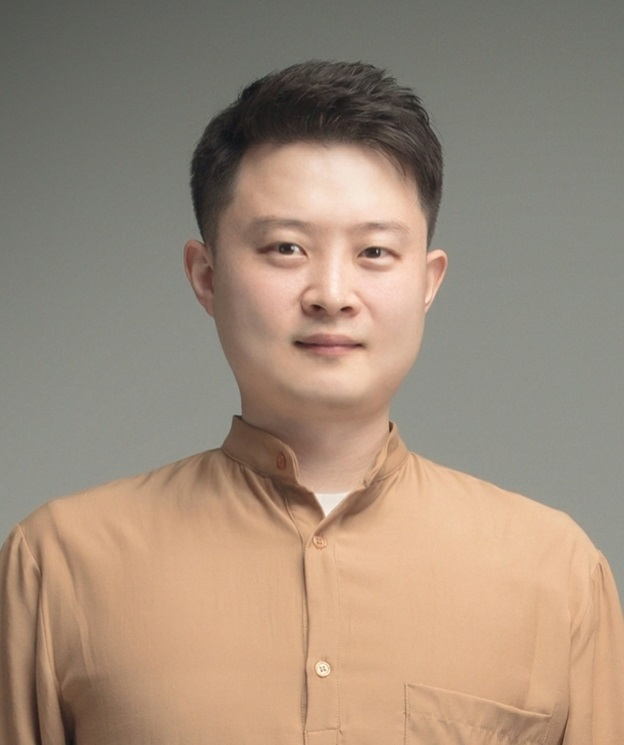
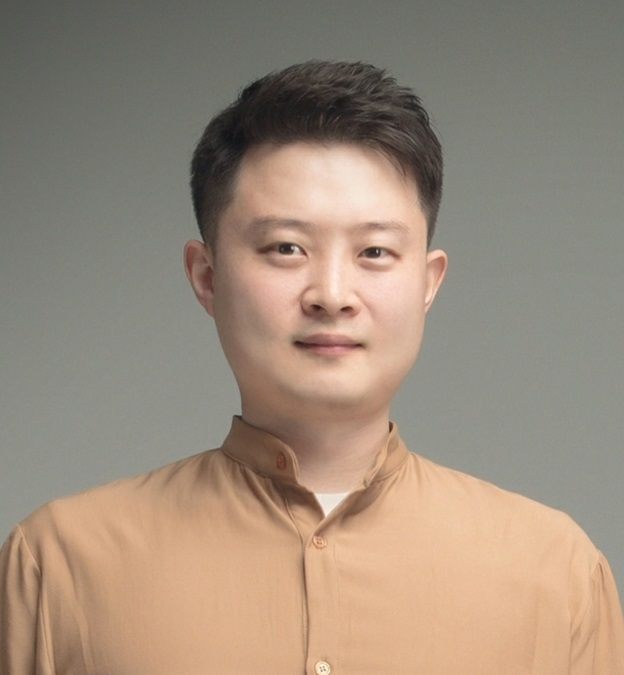
updated description

Changed region(s): [[0.0, 0.0622, 1.0, 1.0], [0.6394, 0.9022, 0.9135, 1.0]]

diff --git a/index.html b/index.html
@@ -3,7 +3,6 @@
 "http://www.w3.org/TR/xhtml1/DTD/xhtml1-strict.dtd">
 <html xmlns="http://www.w3.org/1999/xhtml" lang="en" xml:lang="en">
 <head>
-<!-- 2022-10-22 Sat 06:43 -->
 <meta http-equiv="Content-Type" content="text/html;charset=utf-8" />
 <meta name="viewport" content="width=device-width, initial-scale=1" />
 <title>Sujin Jang</title>
@@ -197,32 +196,42 @@
 <link rel="stylesheet" type="text/css" href="main.css" />
 <link rel="stylesheet" href="https://cdnjs.cloudflare.com/ajax/libs/font-awesome/5.14.0/css/all.min.css" integrity="sha512-1PKOgIY59xJ8Co8+NE6FZ+LOAZKjy+KY8iq0G4B3CyeY6wYHN3yt9PW0XpSriVlkMXe40PTKnXrLnZ9+fkDaog==" crossorigin="anonymous" />
 <link rel="stylesheet" href="https://cdn.jsdelivr.net/gh/jpswalsh/academicons@1/css/academicons.min.css">
+<link rel="stylesheet" href="https://cdn.jsdelivr.net/gh/louisfacun/scholar-icons@master/css/scholar-icons.css">
+<link rel="stylesheet" href="https://cdn.jsdelivr.net/npm/boxicons@latest/css/boxicons.min.css">
+<link href="https://fonts.googleapis.com/css?family=Open+Sans:300,300i,400,400i,600,600i,700,700i|Raleway:300,300i,400,400i,500,500i,600,600i,700,700i|Poppins:300,300i,400,400i,500,500i,600,600i,700,700i" rel="stylesheet">
 </head>
+
 <body>
 <div id="content" class="content">
-<h1 class="title" style="text-align: center;">Sujin Jang</h1>
-<div style="text-align: center;">
-<img src="assets/sujin_profile.jpg" width="20%">
-<p style="text-align: center;">
-sujin.steve.jang [at] gmail.com <br />
-<a href="https://www.sait.samsung.co.kr">Samsung Advanced Institute of Technology (SAIT)</a>, Suwon, South Korea.
-<br/>
-<a href="https://scholar.google.co.kr/citations?user=JiKV0wUAAAAJ">[Google Scholar]</a>
-<a href="https://linkedin.com/in/sujin-jang-7996b354">[LinkedIn]</a>
-<a href="assets/cv.pdf">[CV]</a>
+<h1 class="title" style="text-align: left; color:rgb(0, 102, 204); font-family:verdana">
+<a href="https://sujinjang.github.io/" style="text-decoration: none">
+<strong>Sujin Jang</strong>, Ph.D.
+</a>
+</h1>
+<strong>AI/Cmputer Vision Researcher @</strong><a href="https://www.sait.samsung.co.kr">SAIT (Samsung Advanced Institute of Technology)</a>
+<br>
+Contact: sujin.steve.jang [at] gmail [dot] com
+</br>
+
+<h2 style="color:rgb(0, 102, 204)">About Me
+<a href="https://linkedin.com/in/sujin-jang-7996b354"><i class="fab fa-linkedin fa-1x"></i></a>
+<a href="assets/cv.pdf"><i class="ai ai-cv-square ai-1x"></i></a>
+</h2>
+<div class="outline-text-2" id="text-org132476d">
+<img src="assets/sujin_profile.jpg" align="left" width="150px" style="margin: 0px 20px 0px 0px;">
+<p style="padding-bottom: 0.3cm;" align="justify">
+Hello! I am a Staff Researcher at <a href="https://www.sait.samsung.co.kr">SAIT (Samsung Advanced Institute of Technology)</a>.
+Previously, I was a machine learning researcher at <a href="https://www.motorola.com/kr/">Motorola Mobility</a> in Chicago, IL.
+Before that, I completed my PhD at <a href="https://www.purdue.edu/">Purdue University</a> under the guidance of Dr. <a href="https://engineering.purdue.edu/ME/People/ptProfile?resource_id=12331">Karthik Ramani</a>, focusing on the interaction between humans and machine learning.
+Throughout my research career, I have actively engaged in diverse areas of study, encompassing machine learning, human-computer interaction, visual analytics, and robotics.
+<br>
+Currently at <a href="https://www.sait.samsung.co.kr">SAIT</a>, my primary focus is on developing cutting-edge methodologies in self-supervised learning, domain generalization, and cross-modal representation learning for a variety of computer vision tasks within the field of autonomous driving.
+</p>
 </div>
 
-<h2 style="color:rgb(0, 102, 204)">About me</h2>
-<p>
-Hello! I am a Staff Researcher at <a href="https://www.sait.samsung.co.kr">Samgsung Advanced Institute of Technology (SAIT)</a>.
-Previously, I was a machine learning researcher at Motorola Mobility in Chicago, IL.
-Before that, I completed my PhD at Purdue University under the supervision of Dr. <a href="https://engineering.purdue.edu/ME/People/ptProfile?resource_id=12331">Karthik Ramani</a> where I studied the interaction between human and machine learning.
-<br>
-My current and past research work broadly involve machine learning, human-computer interaction, visual analytics, and robotics.
-More recently, I am primarily interested in self-supervised learning, domain generalization, and cross-modal representation learning for computer vision tasks in the field of autonomous driving.
-</p>
-
-<h2 style="color:rgb(0, 102, 204)">Publications</h2>
+<h2 style="color:rgb(0, 102, 204)">Publications
+<a href="https://scholar.google.com/citations?user=JiKV0wUAAAAJ&hl=en"><i class="ai ai-google-scholar-square ai-1x" ></i></a>
+</h2>
 <div class="outline-text-2" id="text-org132476d">
 <p>
 <b>C</b>: Peer-Reviewed Conference / <b>J</b>: Journal / <b>P</b>: Patent
@@ -231,9 +240,9 @@ More recently, I am primarily interested in self-supervised learning, domain gen
 <dt>[C6] DaDA: Distortion-aware Domain Adaptation for Unsupervised Semantic Segmentation
 </dt>
 <dd><b><span class="underline">Sujin Jang</span></b>, Joohan Na, Dokwan Oh
-<br/>
+<br>
  Advances in Neural Information
-Processing Systems (<b>NeurIPS</b>, <b>Oral</b>, 184/2665~6.9%), 2022
+Processing Systems (<b>NeurIPS-Oral</b>, 184/2665~6.9%), 2022
 </br>
 <a href="https://openreview.net/pdf?id=6RoAxmwj0L2">[paper]</a>
 <a href="https://sait-fdd.github.io/">[project_page]</a>
@@ -244,8 +253,8 @@ Processing Systems (<b>NeurIPS</b>, <b>Oral</b>, 184/2665~6.9%), 2022
 <dt>[C5] Modeling Cumulative Arm Fatigue in Mid-Air Interaction based on Perceived Exertion and Kinetics of Arm Motion
 </dt>
 <dd><b><span class="underline">Sujin Jang</span></b>, Wolfgang St&uuml;erzlinger, Satyajit Ambike, Karthik Ramani
-<br/>
-Proceedings of the ACM Conference on Human Factors in Computing Systems (<b>CHI</b>), 2017 (25% acceptance rate)
+<br>
+Proceedings of the ACM Conference on Human Factors in Computing Systems (<b>CHI</b>, 25% acceptance rate), 2017
 </br>
 <a href="https://dl.acm.org/doi/abs/10.1145/3025453.3025523">[paper]</a>
 <a href="assets/CHI17_Presentation.pdf">[slides]</a>
@@ -255,7 +264,7 @@ Proceedings of the ACM Conference on Human Factors in Computing Systems (<b>CHI<
 <dt>[C4] A Collaborative Filtering Approach to Real-Time Hand Pose Estimation
 </dt>
 <dd>Chiho Choi, Ayan Sinha, Joon Hee Choi, <b><span class="underline">Sujin Jang</span></b>, Karthik Ramani
-<br/>
+<br>
 Proceedings of the IEEE International Conference on Computer Vision (<b>ICCV</b>), 2015
 </br>
 <a href="https://openaccess.thecvf.com/content_iccv_2015/html/Choi_A_Collaborative_Filtering_ICCV_2015_paper.html">[paper]</a>
@@ -263,10 +272,10 @@ Proceedings of the IEEE International Conference on Computer Vision (<b>ICCV</b>
 <a href="https://www.youtube.com/watch?v=tXswZrMEAgo">[video]</a>
 </dd>
 
-<dt>[C3] GestureAnalyzer: visual analytics for pattern analysis of mid-air hand gestures</dt>
+<dt>[C3] GestureAnalyzer: Visual Analytics for Pattern Analysis of Mid-Air Hand Gestures</dt>
 <dd><b><span class="underline">Sujin Jang</span></b>, Niklas Elmqvist, Karthik Ramani
-<br/>
-Proceedings of the ACM Symposium on Spatial User Interaction (<b>SUI</b>), 2014 (29% acceptance rate)
+<br>
+Proceedings of the ACM Symposium on Spatial User Interaction (<b>SUI</b>, 29% acceptance rate), 2014
 </br>
 <a href="https://dl.acm.org/doi/abs/10.1145/2659766.2659772">[paper]</a>
 <a href="https://www.youtube.com/watch?v=F-8NjnB8Di4">[video]</a>
@@ -274,35 +283,36 @@ Proceedings of the ACM Symposium on Spatial User Interaction (<b>SUI</b>), 2014 
 
 <dt>[C2] PuppetX: A Framework for Gestural Interactions With User Constructed Playthings</dt>
 <dd>Saikat Gupta, <b><span class="underline">Sujin Jang</span></b>, Karthik Ramani
-<br/>
-Proceedings of the ACM Conference on Advanced Visual Interfaces (<b>AVI</b>), 2014 (28% acceptance rate)
+<br>
+Proceedings of the ACM Conference on Advanced Visual Interfaces (<b>AVI</b>, 28% acceptance rate), 2014
 </br>
 <a href="https://dl.acm.org/doi/abs/10.1145/2598153.2598171">[paper]</a>
 <a href="https://www.youtube.com/watch?v=5MtBOaB1C14">[video]</a>
 </dd>
 
-<dt>[C1] Experimental Results for Moving Object Structure Estimation using an Unknown Input Observer Approach</dt><dd><b><span class="underline">Sujin Jang</span></b>, Ashwin Dani, Carl Crane, Warren Dixon <br/>
-ASME Dynamic Systems and Control Conference (<b>DSCC</b>, <b><span class="underline">Best Paper in Session Award</span></b>) 2012
-<br/>
+<dt>[C1] Experimental Results for Moving Object Structure Estimation using an Unknown Input Observer Approach</dt>
+<dd><b><span class="underline">Sujin Jang</span></b>, Ashwin Dani, Carl Crane, Warren Dixon <br>
+ASME Dynamic Systems and Control Conference (<b>DSCC</b>, <b><span class="underline">Best Paper in Session Award</span></b>), 2012
+</br>
 <a href="https://asmedigitalcollection.asme.org/DSCC/proceedings-abstract/DSCC2012-MOVIC2012/597/229148">[paper]</a>
 <a href="https://www.youtube.com/watch?v=J2PUK37_94g">[video_static]</a>
 <a href="https://www.youtube.com/watch?v=Lf9OFqTrsBQ">[video_dynamic]</a>
-</br>
 </dd>
 
-<dt>[J2] Advanced Modeling Method for Quantifying Cumulative Subjective Fatigue in Mid-Air Interaction</dt><dd><b><span class="underline">Sujin Jang</span></b>*, Ana Villanueva*, Wolfgang St&uuml;erzlinger, Satyajit Ambike, Karthik Ramani
+<dt>[J2] Advanced Modeling Method for Quantifying Cumulative Subjective Fatigue in Mid-Air Interaction</dt>
+<dd><b><span class="underline">Sujin Jang</span></b>*, Ana Villanueva*, Wolfgang St&uuml;erzlinger, Satyajit Ambike, Karthik Ramani
 <br>
-<i>International Journal of Human-Computer Studies (<b>IJHCS</b>)</i>, Vol 169, January 2023 (<b>*</b>: Equal contributions)
-<br>
+International Journal of Human-Computer Studies (<b>IJHCS</b>), Vol 169, January 2023 (<b>*</b>: Equal contributions)
+</br>
 <a href="https://www.sciencedirect.com/science/article/abs/pii/S1071581922001513">[paper]</a></dd>
 
 <dt>[J1] MotionFlow: Visual Abstraction and Aggregation of Sequential Patterns in Human Motion Tracking Data</dt>
 <dd><b><span class="underline">Sujin Jang</span></b>, Niklas Elmqvist, Karthik Ramani
-<br/>
-<i>IEEE Transaction on Visualization and Computer Graphics (<b>TVCG</b>)</i>, Vol 22. no.1, 2016
+<br>
+IEEE Transaction on Visualization and Computer Graphics (<b>TVCG</b>), Vol 22. no.1, 2016
 </br>
-Presented at <b>IEEE VAST</b> 2015 (22% acceptance rate)
-<br/>
+Presented at <b>IEEE VAST</b> (22% acceptance rate), 2015
+<br>
 <a href="https://ieeexplore.ieee.org/abstract/document/7194831/">[paper]</a>
 <a href="https://vimeo.com/136206227">[video-30sec]</a>
 <a href="https://youtu.be/liaWkY4Uxd4">[video-full]</a>
@@ -310,21 +320,80 @@ Presented at <b>IEEE VAST</b> 2015 (22% acceptance rate)
 </br>
 </dd>
 
-<dt>[P2] Pressure sensing device interface representation</dt>
+<dt>[P3] Method and Device with Data Processing using Neural Network</dt>
+<dd>
+<b><span class="underline">Sujin Jang</span></b>, Joohan Na, Dokwan Oh
+<br>
+US Patent Application 17/575,002, 2022
+</br>
+</dd>
+
+<dt>[P2] Pressure Sensing Device Interface Representation</dt>
 <dd>
 Nikhil Ambha Madhusudhana, Vivek Kumar Tyagi, Navin Dabhi, Hong Zhao, <b><span class="underline">Sujin Jang</span></b>
-<br/>
+<br>
 US Patent 11,320,984, 2022
 </br>
 </dd>
 
-<dt>[P1] Modifying an image based on identifying a feature</dt>
+<dt>[P1] Modifying an Image based on Identifying a Feature</dt>
 <dd>
 Ming Qian, <b><span class="underline">Sujin Jang</span></b>, John Weldon Nicholson, Song Wang
-<br/>
+<br>
 US Patent 11,023,769, 2021
 </br>
 </dd>
+</div>
+
+<div id="outline-container-orgffae3e4" class="outline-2">
+<h2 style="color:rgb(0, 102, 204)">Professional Experience</h2>
+<div class="outline-text-2" id="text-orgffae3e4">
+<ul class="org-ul">
+	<li><b>Samsung Advanced Institute of Technology (SAIT)</b>, Suwon, South Korea
+	<ul class="org-ul">
+		<li>Staff Researcher (Jun. 2020 - Present)
+			<ul class="org-ul">
+				<li>Multi-view 3D vision systems for autonomous driving;</li>
+				<li>Cross-modal representation learning;</li>
+				<li>Unsupervised domain adaptation for visual perception</li>
+			</ul>
+		</li>
+	</li>
+	</ul>
+</ul>
+
+<ul class="org-ul">
+	<li><b>System LSI, Samsung Electronics Co.</b>, Hwaseong, South Korea
+	<ul class="org-ul">
+		<li>Staff Engineer (Jan. 2019 - May 2020)
+		<ul class="org-ul">
+			<li>Object detection and semantic segmentation for autonomous driving;</li>
+			<li>Hardware-aware quantization;</li>
+			<li>GPU/NPU compiler for optimal neural network inference</li>
+		</ul>
+		</li>
+	</li>
+	</ul>
+</ul>
+
+<ul class="org-ul">
+	<li><b>Motorola Mobility LLC.</b>, Chicago, IL, USA
+	<ul class="org-ul">
+		<li>Machine Learning Staff Researcher (Jun. 2017 - Dec. 2018)
+		<ul class="org-ul">
+			<li>Object detection, semantic segmentation, and hand pose estimation for AR/VR applications;</li>
+			<li>Optimization and acceleration of neural network models for smart mobile devices;</li>
+			<li>Human activity analyses based on various types of wearable sensors;</li>
+			<li>Machine learning algorithms for smart mobile/healthcare devices</li>
+		</li>
+		</ul>
+	</li>
+	</ul>
+</ul>
+
+</dl>
+</div>
+</div>
 
 <div id="outline-container-org3b109b4" class="outline-2">
 <h2 style="color:rgb(0, 102, 204)">Education</h2>
@@ -353,44 +422,12 @@ US Patent 11,023,769, 2021
 	<li><b>Kookmin University</b>, Seoul, South Korea
 	<ul class="org-ul">
 		<li>B.S., Mechanical and Automotive Engineering (Aug. 2010)</li>
-		<li>Advisor: Dr. <a href="https://kul.kookmin.ac.kr/xe/index.php?mid=professor_kjh">Jungha Kim
+		<li>Advisor: Dr. <a href="http://kul.kookmin.ac.kr/xe/index.php?mid=professor_kjh">Jungha Kim
 </a></li>
 		<li>Undergraduate Research Assistant, Unmanned Vehicle Lab.</li>
 	</li>
 	</ul>
 </ul>
-
-<div id="outline-container-orgffae3e4" class="outline-2">
-<h2 style="color:rgb(0, 102, 204)">Work Experience</h2>
-<div class="outline-text-2" id="text-orgffae3e4">
-<ul class="org-ul">
-	<li><b>Samsung Advanced Institute of Technology (SAIT)</b>, Suwon, South Korea
-	<ul class="org-ul">
-		<li>Staff Researcher (Jun. 2020 - Present)
-		</li>
-	</li>
-	</ul>
-</ul>
-
-<ul class="org-ul">
-	<li><b>System LSI, Samsung Electronics Co.</b>, Hwaseong, South Korea
-	<ul class="org-ul">
-		<li>Staff Engineer (Jan. 2019 - May 2020)
-		</li>
-	</li>
-	</ul>
-</ul>
-
-<ul class="org-ul">
-	<li><b>Motorola Mobility</b>, Chicago, IL, USA
-	<ul class="org-ul">
-		<li>Machine Learning Staff Researcher (Jun. 2017 - Dec. 2018)
-		</li>
-	</li>
-	</ul>
-</ul>
-
-</dl>
 </div>
 </div>
 
@@ -398,18 +435,18 @@ US Patent 11,023,769, 2021
 <h2 style="color:rgb(0, 102, 204)">Honors and Awards</h2>
 <div class="outline-text-2" id="text-org91fa3b7">
 <ul class="org-ul">
-<li><b>Estus H. and Vashti L. Magoon Award for Teaching Excellence</b> (2015)
-<ul class="org-ul">
-<li>College of Engineering, Purdue University</li>
-<li>Awarded for excellent teaching in "<a href="https://engineering.purdue.edu/toydesign/wp/">ME444: Computer-Aided Design and Rapid Prototyping</a>"
-</li>
-</ul>
+	<li><b>Estus H. and Vashti L. Magoon Award for Teaching Excellence</b> (2015)
+	<ul class="org-ul">
+	<li>College of Engineering, Purdue University</li>
+	<li>Awarded for excellent teaching in "<a href="https://engineering.purdue.edu/toydesign/wp/">ME444: Computer-Aided Design and Rapid Prototyping</a>"</li>
+	</ul>
 
-<li><b>Best Paper in Session Award</b> (2012)
-<ul class="org-ul">
-<li>ASME Dynamic Systems and Control Conference</li>
-<li>Awarded for "<a href="https://asmedigitalcollection.asme.org/DSCC/proceedings-abstract/DSCC2012-MOVIC2012/597/229148">Experimental Results for Moving Object Structure Estimation using an Unknown Input Observer Approach</a>"</li>
-</li>
+	<li><b>Best Paper in Session Award</b> (2012)
+	<ul class="org-ul">
+		<li>ASME Dynamic Systems and Control Conference</li>
+		<li>Awarded for "<a href="https://asmedigitalcollection.asme.org/DSCC/proceedings-abstract/DSCC2012-MOVIC2012/597/229148">Experimental Results for Moving Object Structure Estimation using an Unknown Input Observer Approach</a>"</li>
+	</li>
+	</ul>
 </ul>
 </div>
 </div>
@@ -418,28 +455,28 @@ US Patent 11,023,769, 2021
 <h2 style="color:rgb(0, 102, 204)">Scientific Community Service</h2>
 <div class="outline-text-2" id="text-orgabc2c95">
 <ul class="org-ul">
+<li>[ASME JCISE] Reviewer, Journal of Computing and Information Science in Engineering (2023)</li>
 <li>[IEEE CVPR] Reviewer, Conference on Computer Vision and Pattern Recognition (2023)</li>
-<li>[IEEE ISMAR] Reviewer, IEEE International Symposium on Mixed and Augmented Reality (2021)</li>
-<li>[IEEE VR] Reviewer, IEEE Conference on Virtual Reality and 3D User Interfaces (2018~2019)</li>
-<li>[IEEE 3DUI] Reviewer, IEEE Symposium on 3D User Interfaces (2016)</li>
-<li>[IEEE TVCG] Reviewer, IEEE Transaction on Visualization and Computer Graphics (2017)</li>
-<li>[IEEE VAST] Reviewer, IEEE Conference on Visual Analytics Science and Technology (2016~2020)</li>
-<li>[IEEE InfoVis] Reviewer, IEEE Conference on Information Visualization (2015)</li>
+<li>[IEEE ISMAR] Reviewer, International Symposium on Mixed and Augmented Reality (2021)</li>
+<li>[IEEE VR] Reviewer, Conference on Virtual Reality and 3D User Interfaces (2018~2019)</li>
+<li>[IEEE 3DUI] Reviewer, Symposium on 3D User Interfaces (2016)</li>
+<li>[IEEE TVCG] Reviewer, Transaction on Visualization and Computer Graphics (2017)</li>
+<li>[IEEE VAST] Reviewer, Conference on Visual Analytics Science and Technology (2016~2020)</li>
+<li>[IEEE InfoVis] Reviewer, Conference on Information Visualization (2015)</li>
 <li>[IEEE EuroVis] Reviewer, EG/VGTC Conference on Data Visualization (2016)</li>
 <li>[IEEE VIS] Student Volunteer (2015)</li>
-<li>[ACM CHI] Reviewer, ACM Conference on Human Factors in Computing Systems (2016~2021)</li>
-<li>[ACM UIST] Reviewer, ACM Symposium on User Interface Software and Technology (2018)</li>
-<li>[ACM MobileCHI] Reviewer, ACM International Conference on Mobile Human-Computer Interaction (2019)</li>
-<li>[ACM SUI] Reviewer, ACM ACM Spatial User Interaction (2019)</li>
-<li>[ACM DIS] Reviewer, ACM Conference on Designing Interactive Systems (2016~2017)</li>
-<li>[ACM CSCW] Reviewer, ACM Conference on Computer Supported Collaborative Work (2016~2019)</li>
-<li>[ACM TEI] Reviewer, ACM Conference on Tangible, Embedded, and Embodied Interaction (2017)</li>
-<li>[ACM IDC] Reviewer, ACM Conference on Interaction Design and Children (2017)</li>
-<li>[ACM VRST] Reviewer, ACM Conference on Virtual Reality Software and Technology (2017)</li>
+<li>[ACM CHI] Reviewer, Conference on Human Factors in Computing Systems (2016~2021)</li>
+<li>[ACM UIST] Reviewer, Symposium on User Interface Software and Technology (2018)</li>
+<li>[ACM MobileCHI] Reviewer, International Conference on Mobile Human-Computer Interaction (2019)</li>
+<li>[ACM SUI] Reviewer, Spatial User Interaction (2019)</li>
+<li>[ACM DIS] Reviewer, Conference on Designing Interactive Systems (2016~2017)</li>
+<li>[ACM CSCW] Reviewer, Conference on Computer Supported Collaborative Work (2016~2019)</li>
+<li>[ACM TEI] Reviewer, Conference on Tangible, Embedded, and Embodied Interaction (2017)</li>
+<li>[ACM IDC] Reviewer, Conference on Interaction Design and Children (2017)</li>
+<li>[ACM VRST] Reviewer, Conference on Virtual Reality Software and Technology (2017)</li>
 </ul>
 </div>
 </div>
-</div>
+
 </body>
 </html>
-
